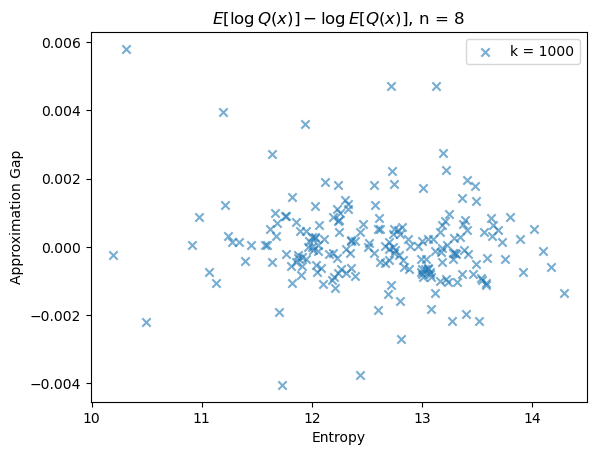
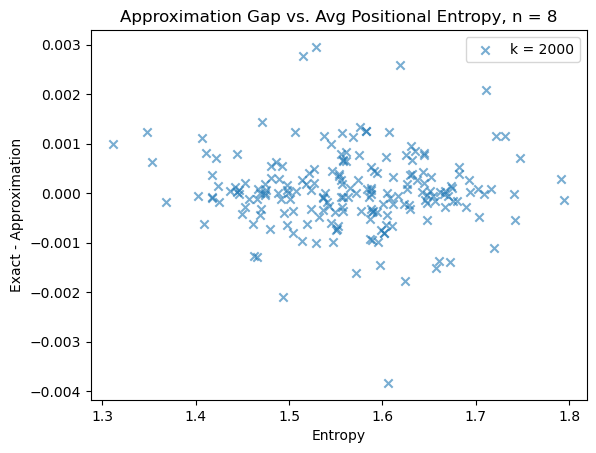
added jensen full model

diff --git a/ncrna_design/sampling/graph.py b/ncrna_design/sampling/graph.py
@@ -7,17 +7,21 @@ if sys.argv[2] == 'samples':
         
         n = int(lines[0].split(', ')[0].split(': ')[1])
         exact_value = float(lines[n+1].split(': ')[1])
-        jensen_value = float(lines[n+2].split(': ')[1])
+        jensen_value_simple = float(lines[n+2].split(': ')[1])
+        jensen_value_full = float(lines[n+3].split(': ')[1])
 
         k = []
         val = []
-        for line in lines[n+3:n+2003]:
+        for line in lines[n+4:n+2004]:
             if len(line) > 0:
                 k.append(int(line.split()[0]))
                 val.append(float(line.split()[1]))
 
+        plt.ylim(exact_value-0.05, exact_value+0.05)
+
         plt.axhline(y=exact_value, color='r', label='Exact Value (Full model)')
-        plt.axhline(y=jensen_value, color='g', label='Jensen Approximation (Simple model)')
+        plt.axhline(y=jensen_value_simple, color='orange', label='Jensen Approximation (Simple model)')
+        plt.axhline(y=jensen_value_full, color='g', label='Jensen Approximation (Full model)')
 
         plt.xlabel('Number of Samples')
         plt.ylabel('E[log Q(x)] (kcal/mol)')
@@ -39,9 +43,9 @@ else:
                 gap.append(float(line.split(", ")[1]))
 
         plt.xlabel('Entropy')
-        plt.ylabel('Approximation Gap')
-        plt.title(r'$E[\log Q(x)] - \log E[Q(x)]$, n = 8')
+        plt.ylabel('Exact - Approximation')
+        plt.title(f'Approximation Gap vs. Avg Positional Entropy, n = {n}')
 
-        plt.scatter(entropy, gap, label='k = 1000', marker='x', alpha=0.6)
+        plt.scatter(entropy, gap, label='k = 2000', marker='x', alpha=0.6)
         plt.legend()
         plt.savefig(f'approx_gap/{sys.argv[1]}.png', format='png', bbox_inches='tight')

diff --git a/ncrna_design/sampling/sampling.py b/ncrna_design/sampling/sampling.py
@@ -119,11 +119,36 @@ def sampling_test(n, k):
     for i, seq in enumerate(seqs):
         curr_sum += log_Q_cached[seq]
         print(i+1, curr_sum / (i + 1))
+
+kT = 61.63207755
+def log_E_Q(D):
+    """Brute Force"""
+    n = len(D)
+
+    if n not in sequences:
+        sequences[n] = generate_sequences('ACGU', n=n)
+
+    value = 0.
+    for seq in sequences[n]:
+        value += probability(D, seq) * np.exp(log_Q_cached["".join(seq)] * 100 / -kT)
+
+    return value
+
+def jensen_approx(n):
+    D = np.array([[.25,.25,.25,.25] for _ in range(n)]) # random distribution
+    print(D)
+
+    sequences[n] = generate_sequences('ACGU', n=n)
+    with concurrent.futures.ThreadPoolExecutor(max_workers=8) as executor:
+        futures = [executor.submit(log_Q, "".join(seq)) for seq in sequences[n]]
+        concurrent.futures.wait(futures)
+    partition_jensen = log_E_Q(D)
+    print("Jensen value: ", np.log(partition_jensen) * -kT / 100.0)
     
 if __name__ == '__main__':
     np.random.seed(seed=42)
     parser = argparse.ArgumentParser()
-    
+
     # parser.add_argument("--id", type=int, default=0)
     # parser.add_argument("--lr", type=float, default=0.001)
     # parser.add_argument("--step", type=int, default=2000)
